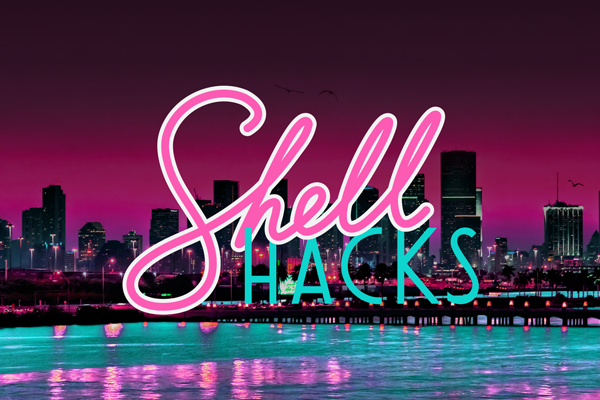
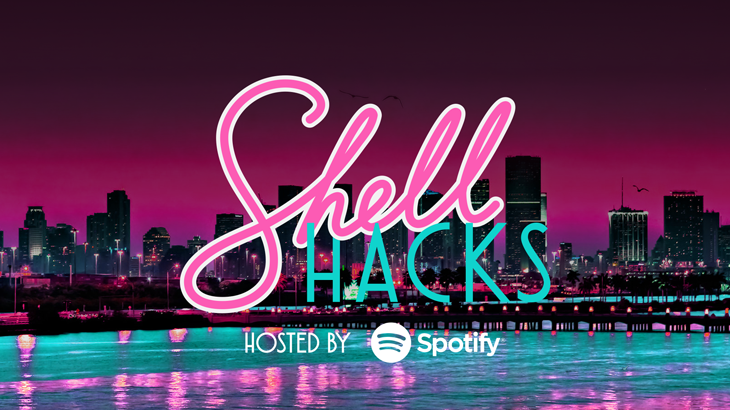
Added denial reason, transportation info on the FAQ, changed opengraph

diff --git a/common/classes/Hacker.php b/common/classes/Hacker.php
@@ -215,6 +215,11 @@ class Hacker extends User
         return $this->userInfo['check_in_code'];
     }
 
+    public function getDenialReason()
+    {
+        return $this->userInfo['denial_reason'];
+    }
+
     public function isFirstHackathon()
     {
         return filter_var($this->userInfo['is_first_hackathon'], FILTER_VALIDATE_BOOLEAN);
